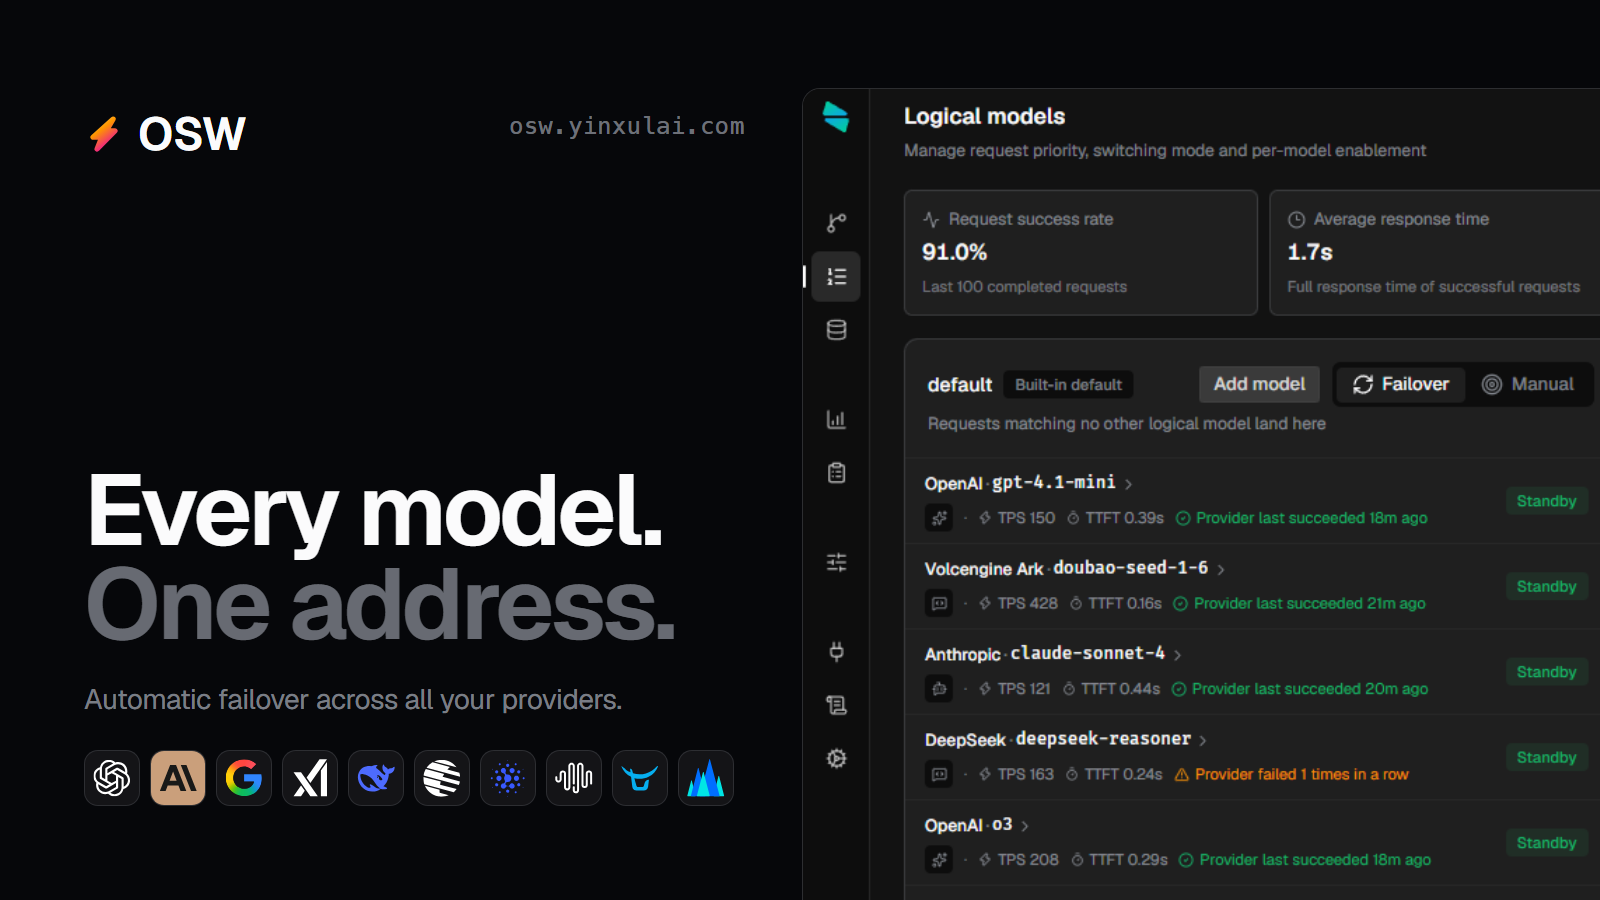
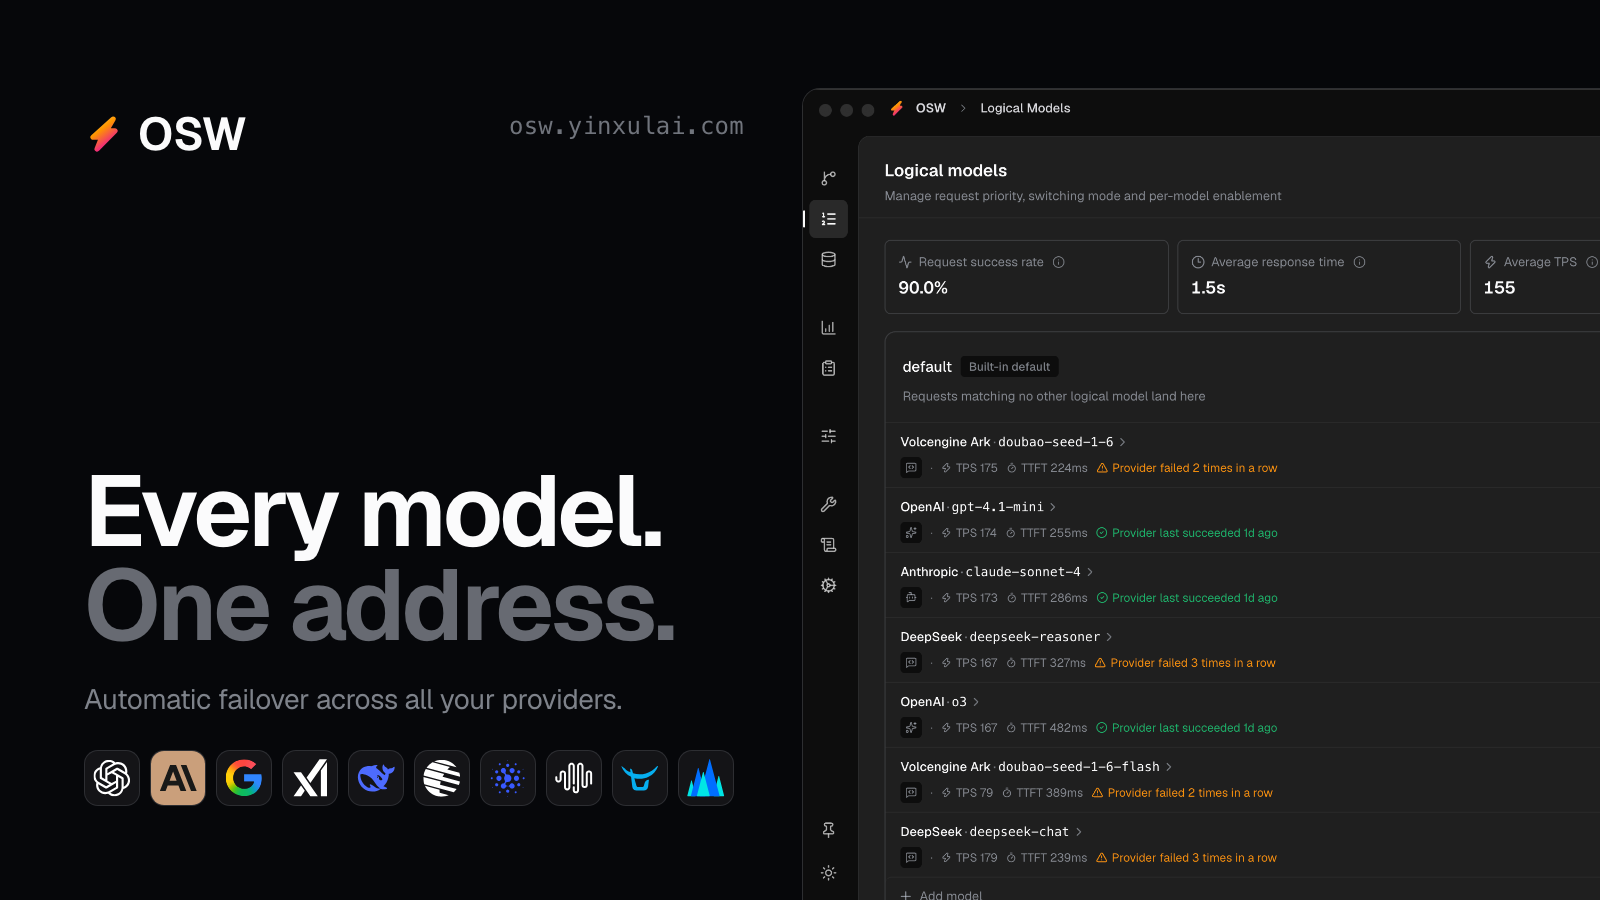
feat(readme): add the X cover hero and document the headless re-capture flow

diff --git a/apps/docs/assets/x-post/x-cover.html b/apps/docs/assets/x-post/x-cover.html
@@ -4,7 +4,8 @@
 <meta charset="utf-8" />
 <title>OSW — X cover (1600×900)</title>
 <!--
-  交付方式：手动截图。浏览器打开本文件 → DevTools → 「Capture full size screenshot」。
+  交付方式：无头 Chrome 截固定 1600×900（命令见 ../README.md 的「约 定」第 2 条）。
+  不要手动 DevTools 截图：手截会带上设备像素比与滚动位置差异，重出的图不再是 1:1。
   画布固定 1600×900（X 时间线按 ~500px 宽显示，所以整张图按「缩到 1/3 还能读」设计）。
 
   两个必须留意的点：

diff --git a/apps/docs/assets/README.md b/apps/docs/assets/README.md
@@ -7,9 +7,20 @@
 | 子目录 | 内容 |
 |--------|------|
 | [`brand/`](./brand/README.md) | 品牌标志的单一矢量源、导出脚本说明、各平台托盘产物的取舍。 |
-| [`x-post/`](./x-post/) | 社交平台封面：`x-cover.html`（手动截图源）与导出图 `x-cover.png`。 |
+| [`x-post/`](./x-post/) | 社交平台封面：`x-cover.html`（画布源）与导出图 `x-cover.png`（根 README 顶部 hero 图）。 |
 
 ## 约定
 
 1. **标志只有一个矢量源。** 所有位图（打包 png / ico、托盘、文档导出）都由 [`brand/icon.svg`](./brand/icon.svg) 派生，改标志只改 [`packages/console/public/icon.svg`](../../../packages/console/public/icon.svg) 再跑 `pnpm icons`，不要手改 png。
-2. **画布类资产不参与构建。** `x-cover.html` 靠浏览器手动截图产出，字体与截图的相对路径写死在文件里，移动文件必须同步改路径。
+2. **画布类资产不参与构建。** `x-cover.html` 靠浏览器渲染产出，字体与截图的相对路径写死在文件里，移动文件必须同步改路径。改完用无头 Chrome 重拍（固定 1600×900，`.stage` 填满视口）：
+
+   ```bash
+   "/Applications/Google Chrome.app/Contents/MacOS/Google Chrome" \
+     --headless=new --disable-gpu --hide-scrollbars --no-sandbox \
+     --force-device-scale-factor=1 --allow-file-access-from-files \
+     --virtual-time-budget=8000 --window-size=1600,900 \
+     --screenshot=apps/docs/assets/x-post/x-cover.png \
+     "file://$PWD/apps/docs/assets/x-post/x-cover.html"
+   ```
+
+   左栏文字/图标与 `snapshot/` 里的应用截图是两件事：左栏只有 HTML 改动才会变，右侧大图跟着 `snapshot/en/dark/01-logical-models.png` 一起变 —— 重拍 snapshot 后这张封面要一并重出。

diff --git a/README.md b/README.md
@@ -10,6 +10,10 @@
 
 <p align="center">English | <a href="./README.zh-CN.md">简体中文</a></p>
 
+<p align="center">
+  <img src="./apps/docs/assets/x-post/x-cover.png" alt="Every model, one address: automatic failover across all your providers" />
+</p>
+
 OSW runs a proxy on your machine. You register all the channels you have — different providers, different accounts, different models — put them in the order you want them tried, and point every AI client at a single local address. From then on it does the work: identify the protocol, pick a channel, send the request, move on when a channel fails, and record exactly what happened.
 
 Your client only ever sees the attempt that succeeded.

diff --git a/README.zh-CN.md b/README.zh-CN.md
@@ -10,6 +10,10 @@
 
 <p align="center"><a href="./README.md">English</a> | 简体中文</p>
 
+<p align="center">
+  <img src="./apps/docs/assets/x-post/x-cover.png" alt="所有模型，一个地址：跨供应商自动故障转移" />
+</p>
+
 OSW 在本机跑一个代理服务。你把能用的渠道都配进来（不同供应商、不同账号、不同模型），排好优先级，然后让所有 AI 客户端统一指向一个本地地址。剩下的事它自己做：识别协议、按顺序挑渠道、把请求送出去、失败就换下一个，并把真实发生的一切记录清楚。
 
 于是客户端只会看到成功的那一次。
